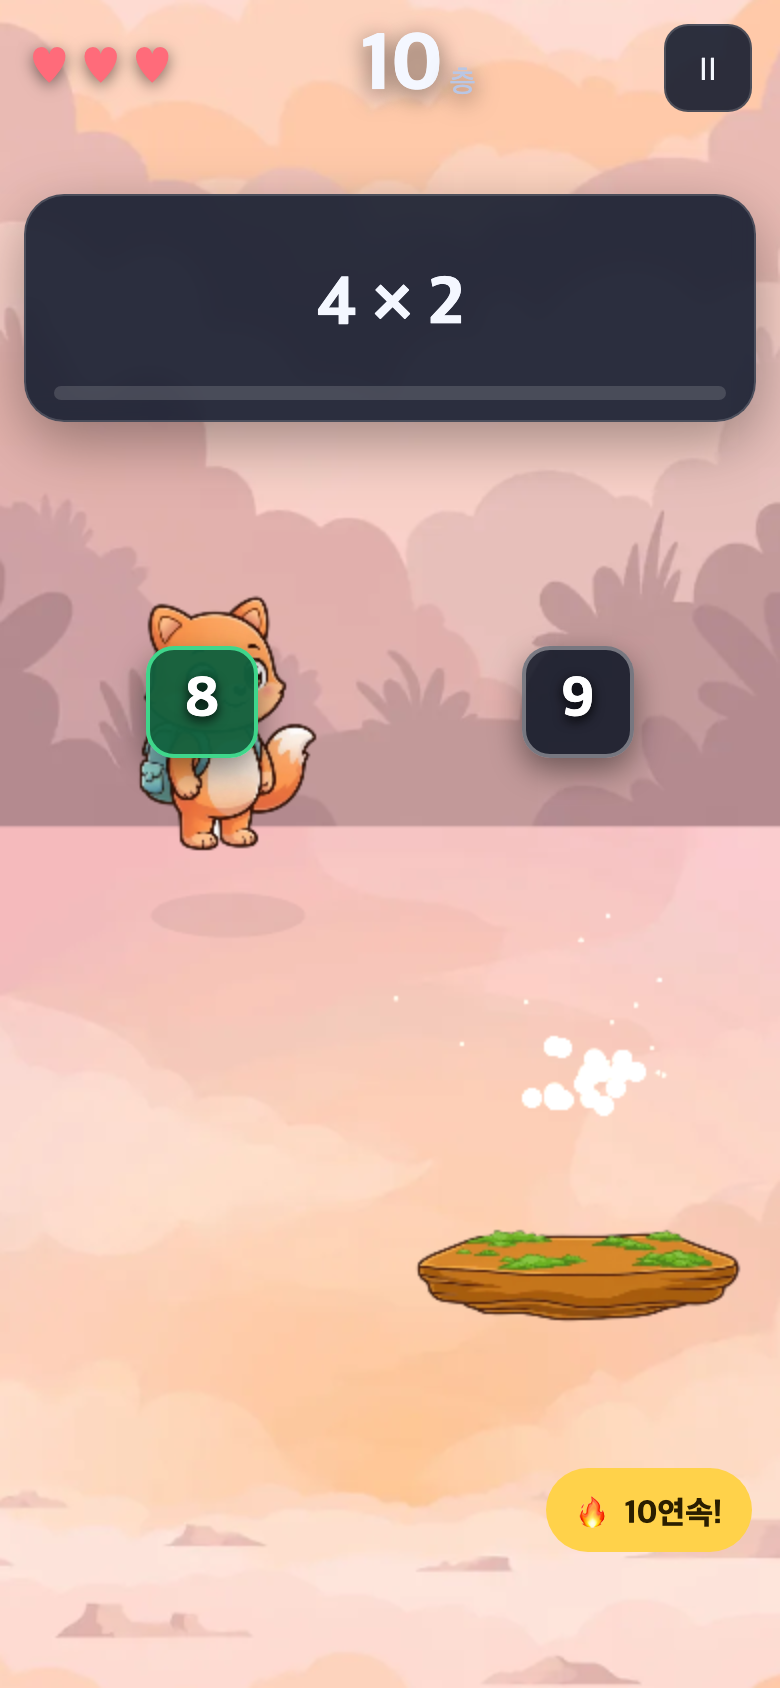
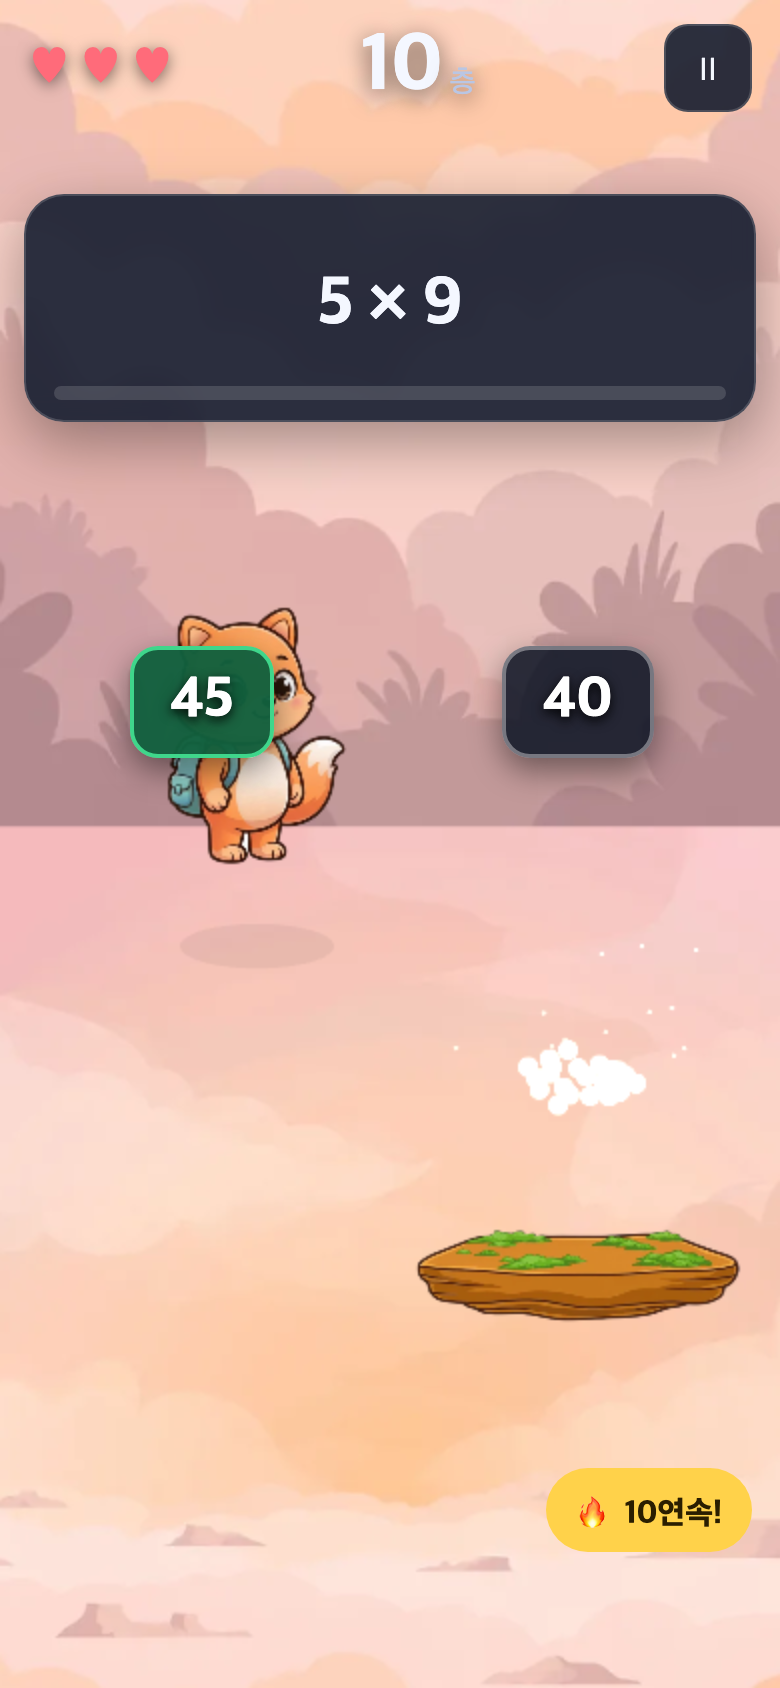
docs(oreudap): README — 설계 원칙·게이트 목록·남은 확인 항목
Claude-Session: https://claude.ai/code/session_01EiFRgbPsMcnpUGq5xx2VGT

diff --git a/README.md b/README.md
@@ -1,0 +1,63 @@
+# 오르답 — 정답을 밟고 오르는 무한 학습 계단
+
+구구단과 영단어를 **한눈에 즉답**하며 층을 올리는 세로형 아케이드 학습 게임.
+위로 갈라지는 발판마다 답이 적혀 있고, **맞는 답을 밟아야만 한 층 오른다.**
+
+▶ **플레이: https://muhan-pi.vercel.app**
+
+## 설계의 중심 한 줄
+학습을 «진행의 1차 자원»으로 둔다. 시간은 벽이고 정답이 열쇠다.
+그래서 실력이 곧 기록이 된다 — 실측(게임 코어를 직접 돌린 봇 격자):
+
+| 아는 확률 | 0(순수 찍기) | 0.6 | 0.9 | 1.0 |
+|---|---|---|---|---|
+| 중앙값 층 | 3 | 10 | 86 | 200 |
+
+찍기·연타·정답 위치 카운팅으로는 오를 수 없다(게이트가 매번 확인한다).
+
+## 아이를 위한 원칙
+- **개인정보를 아예 받지 않는다.** 이름·나이·학교·계정·채팅 없음, 입력 필드 0개,
+  광고·분석 SDK 0개, 외부 도메인 요청 0건. 기록은 이 기기 localStorage 에만 남는다.
+- 오답은 벌이 아니다. 틀리면 **정답 발판을 알려 주고** 오답노트에 담아 며칠 뒤 다시 낸다.
+- 코인으로 파는 것은 캐릭터·하늘 같은 **코스메틱뿐**. 돈으로 학습을 건너뛸 수 없다.
+
+## 만든 방식
+- **엔진**: Phaser 3.90 (월드만 캔버스) + **DOM 오버레이**(글자·터치 타깃)
+  → 44px 터치·28px 글자·대비 4.5:1 을 «실제로 잴 수 있다». 캔버스 오브젝트로는 증명이 불가능하다.
+- **코어**(`src/core/`)는 DOM·Phaser 를 import 하지 않는다 → 브라우저 없이 완료 기준을 1:1 테스트.
+- **에셋 전부 자체 제작**: 이미지 15장(Meta 생성 후 후처리), 효과음 7종(오프라인 렌더),
+  BGM 1곡(ACE-Step 로컬, 이음새 없는 루프). 외부 폰트·CDN 0개. 원장 = `public/assets/asset-license.json`.
+
+## 개발
+```bash
+npm install
+npm run dev        # 개발 서버
+npm run gate       # 전체 게이트 14종 (배포 전 이것만 돌리면 된다)
+npm run assets     # 에셋 재생성 + 라이선스 원장
+npm run docs:sync  # GDD 수치표를 게임 코드에서 재생성
+```
+
+## 게이트 (전부 «빨간불이 나오는지» 확인한 것들)
+| 게이트 | 무엇을 막는가 |
+|---|---|
+| 유닛 52건 | 완료 기준 D2~D27 1:1 |
+| 밸런스 격자 | 찍기·연타·위치 카운팅 우회, 학습→진행 단조성 |
+| 정답 위치 균형 | 정답이 한 자리에 몰리는 것(χ² 과목·갈래별) |
+| 학습 데이터 | 곱셈 전수 검산, 낱말 중복·품사·출처 원장 대조 |
+| 2D 스모크 | 텍스처 누락(분홍 사각형)·무음·씬 누수·결정론·숨은 탭 |
+| 시각 QA | 상태 15장 전수, 44px·28px·대비, 히트테스트, 5개 화면 크기 |
+| 플레이 QA | 진짜 키·포인터 입력, 키 홀드, 타임아웃 이후 입력, 개인정보 전수 |
+| 성능·번들 | 최악 장면 P95, gzip 초기 전송량, GL 드로우콜 직접 계측 |
+
+## 문서
+- `docs/GDD.md` — 기획서(룰·수치·완료 기준 D1~D27). 수치표는 코드에서 재생성된다.
+- `docs/RESEARCH.md` · `docs/LEGAL-COMPARE.md` — 장르 조사와 저작권·부정경쟁 비교 검토
+- `docs/PRIVACY.md` · `docs/STORE-COMPLIANCE.md` — 개인정보·스토어 아동 정책
+- `docs/data-sources.md` — 학습 데이터 출처 원장
+- `docs/GDD-XVAL.md` — 기획서 8way 교차검증 기록
+
+## 남은 사용자 확인 항목
+1. 게임 이름 확정 후 KIPRIS 상표 검색(제41류·제9류)
+2. 교육부 고시 초등 권장 어휘표와 낱말 대조
+3. 앱 배포 시 스토어 아동 정책 제출(`docs/STORE-COMPLIANCE.md`)과 변호사·변리사 검토 1회
+4. 참조 기기 실측 P95(현재 수치는 headless 구조 경고선이지 실기기 성능이 아니다)
